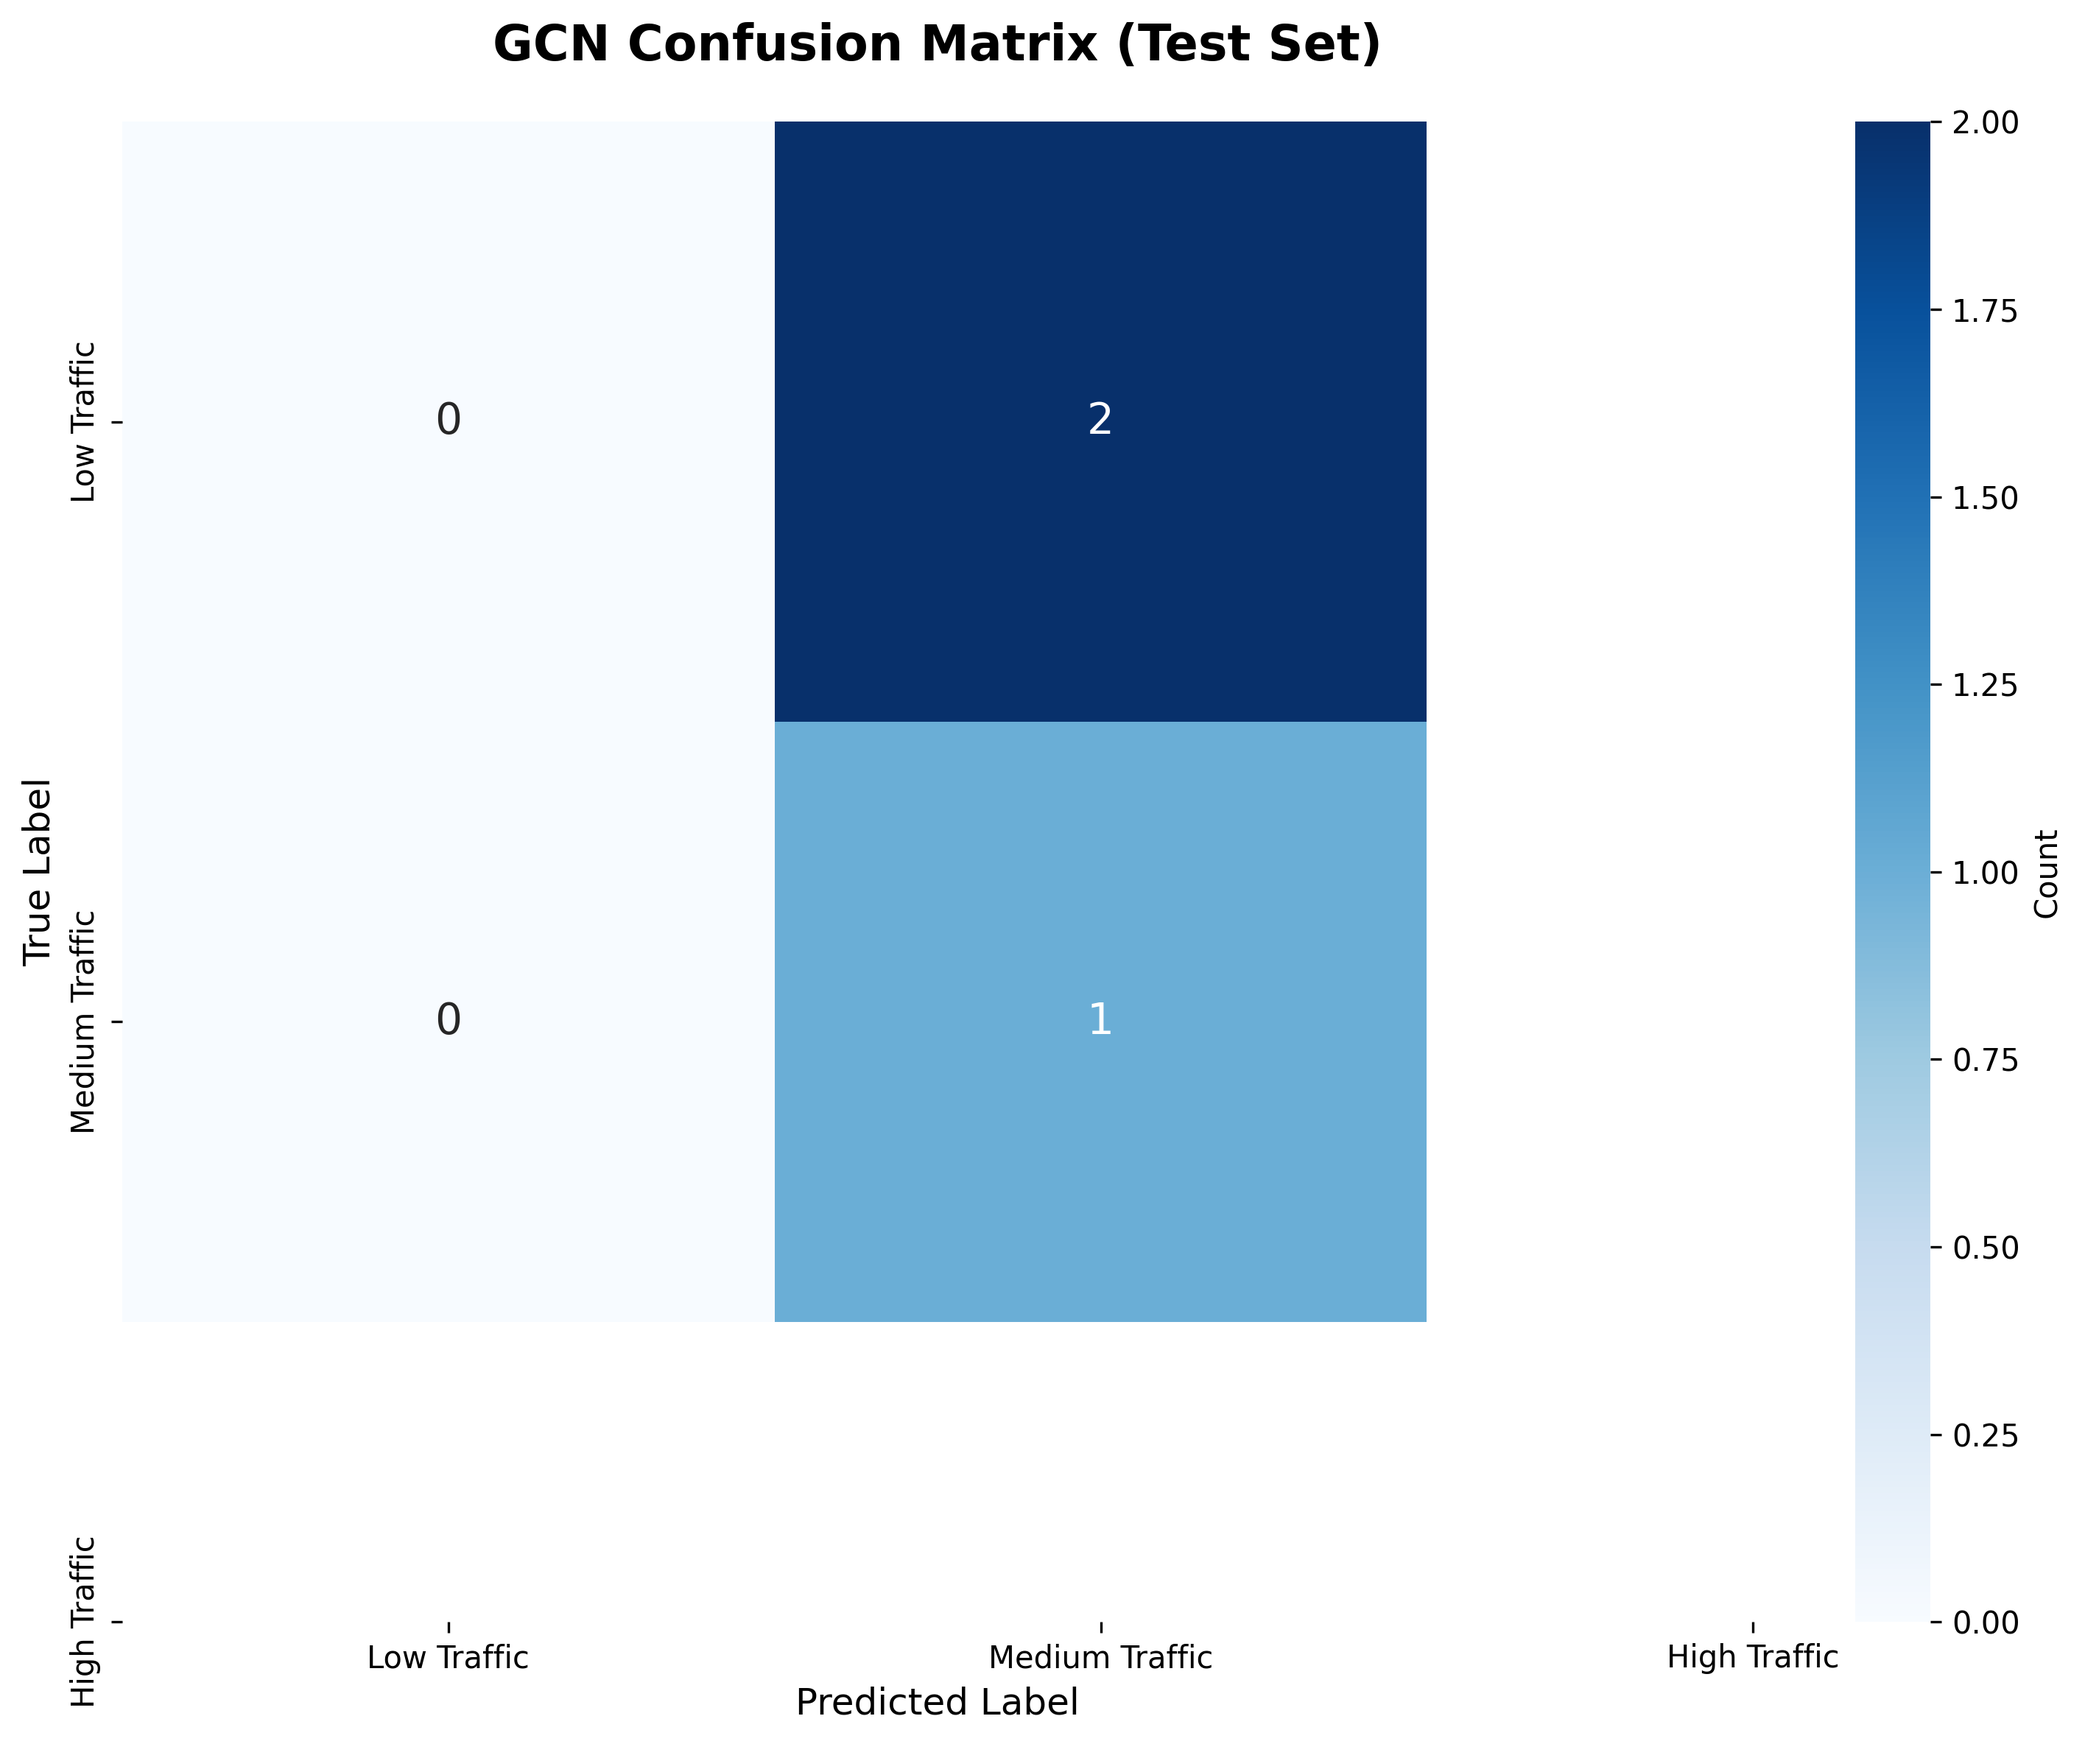
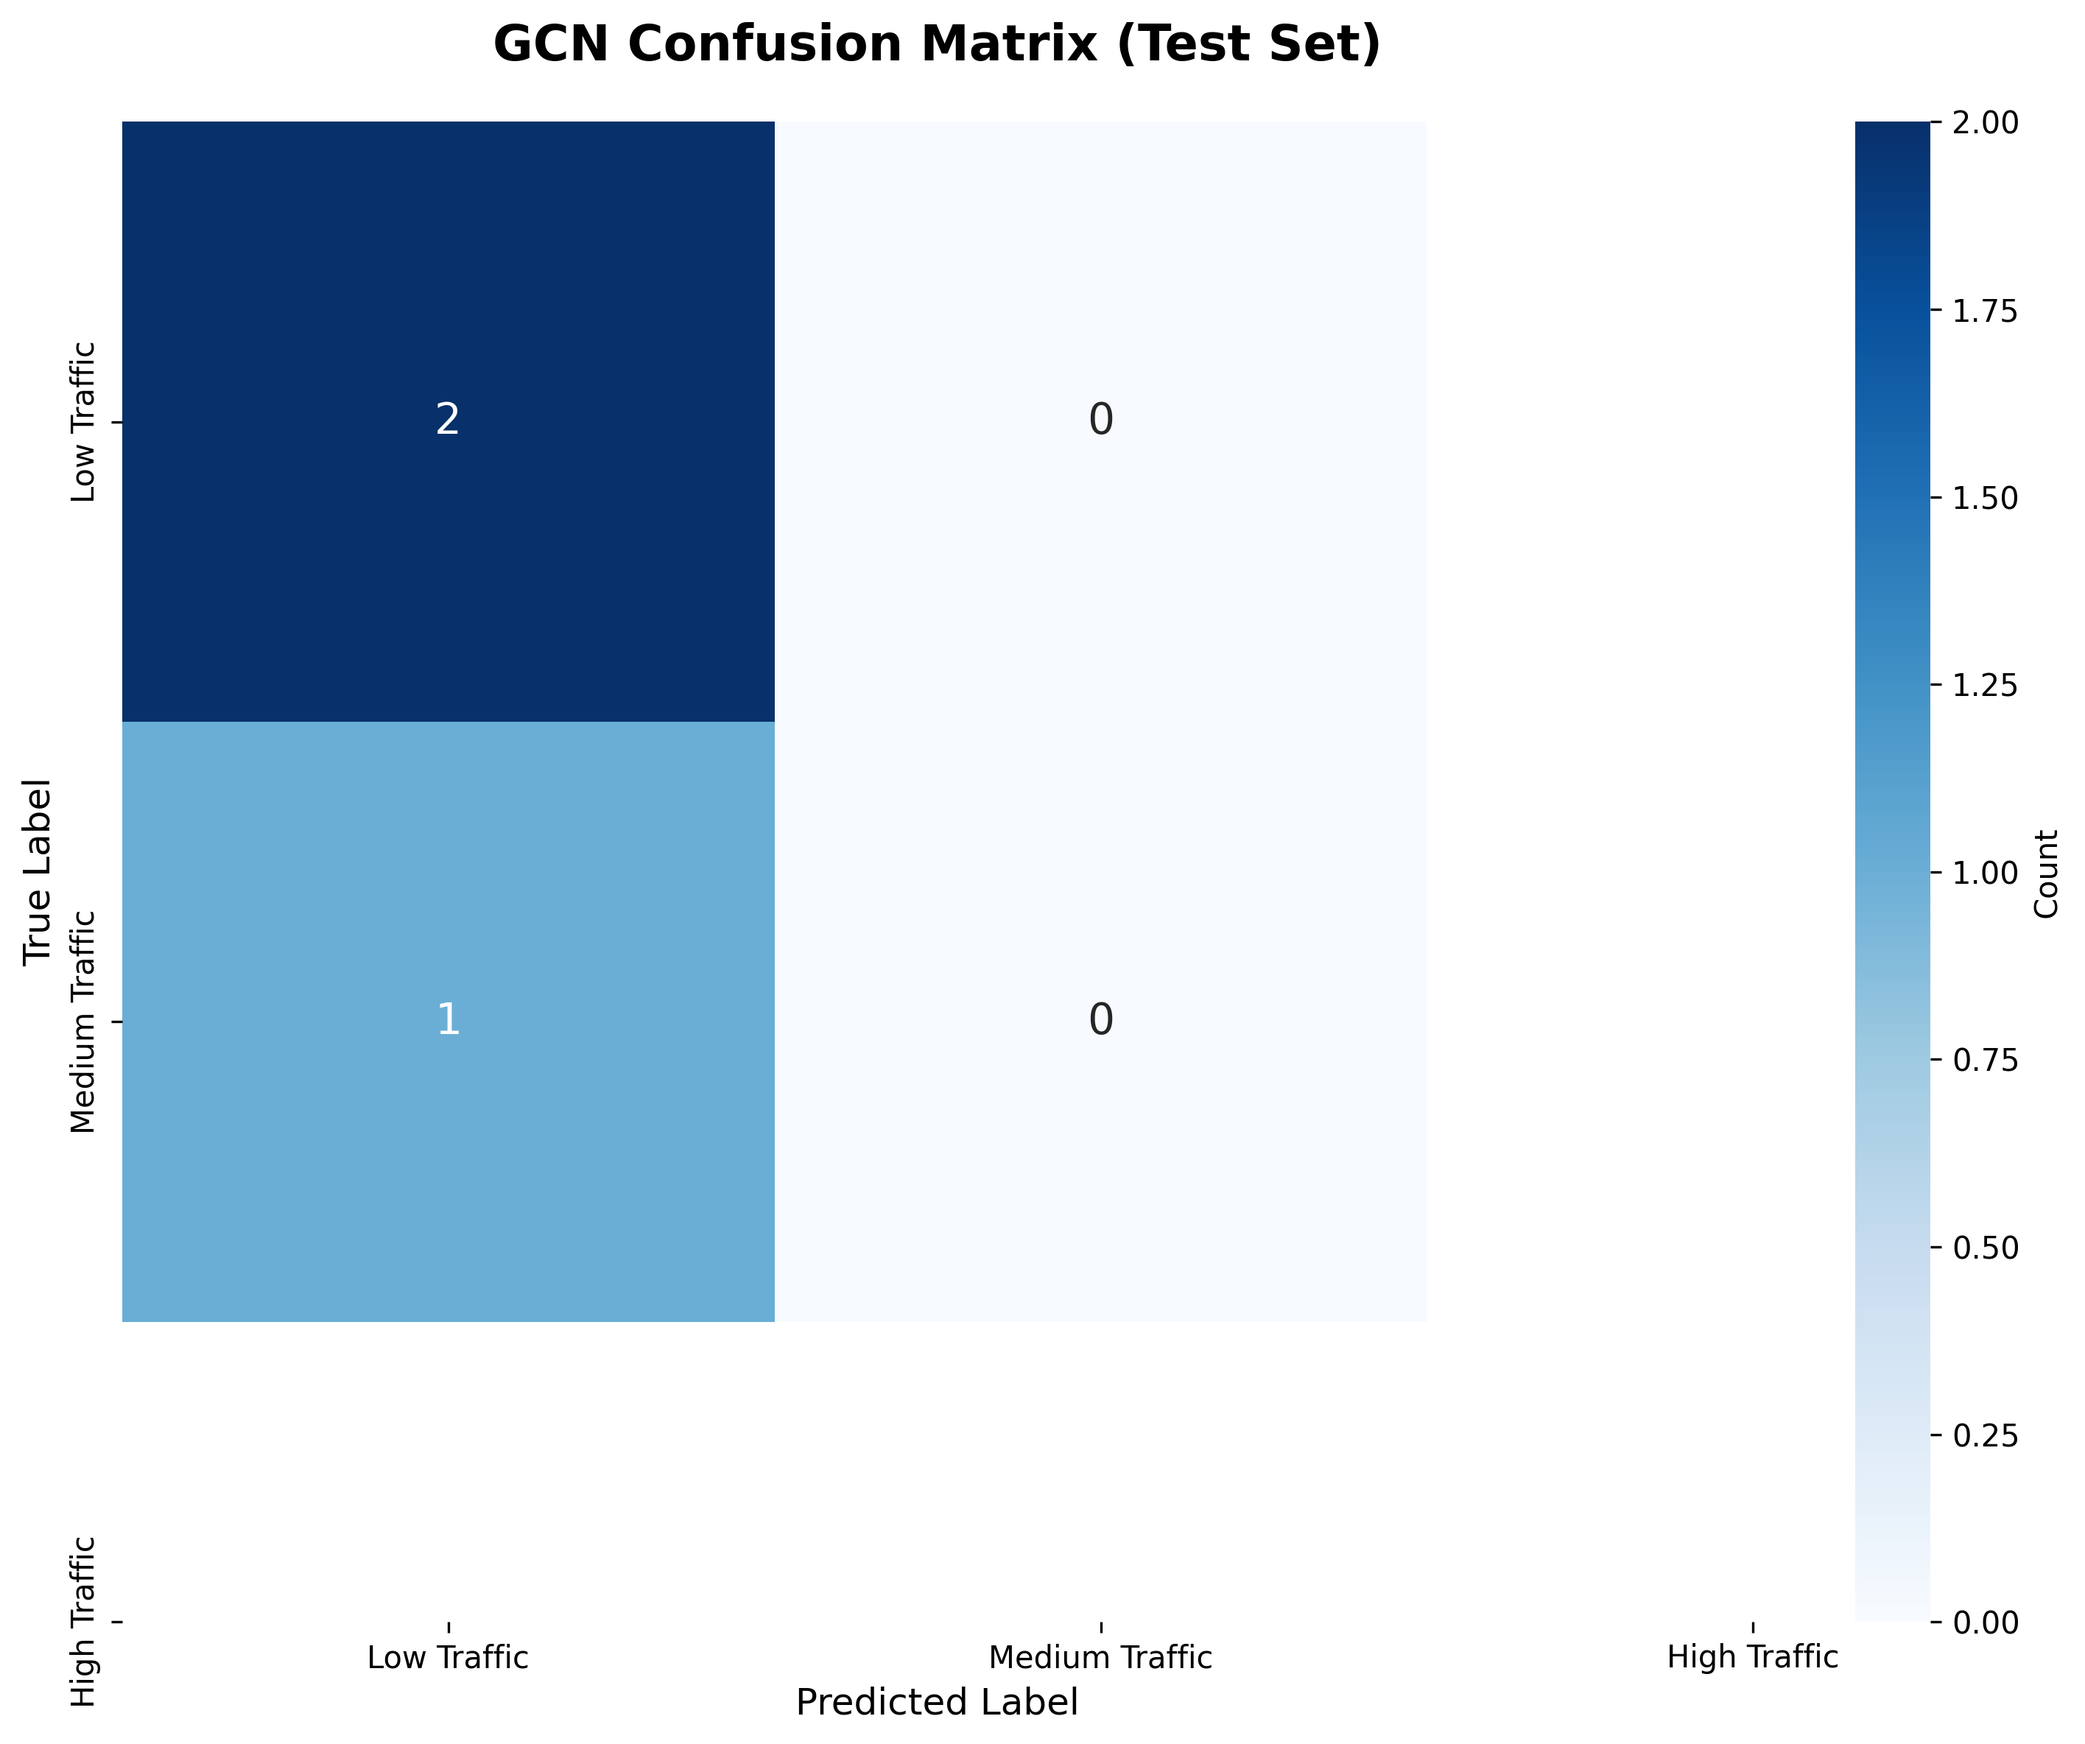
Trained GCN model

diff --git a/src/graph_construction.py b/src/graph_construction.py
@@ -133,42 +133,106 @@ def construct_graph(nodes: Dict, ways: List) -> Data:
     edge_index = torch.tensor(edge_list, dtype=torch.long).t().contiguous()
     edge_attr = torch.tensor(edge_attr_list, dtype=torch.float).unsqueeze(1)
     
-    # Create node features: [lat, lon, norm_lat, norm_lon, degree]
+    # Calculate additional features
+    # Betweenness centrality (how many shortest paths pass through this node)
+    betweenness = np.zeros(num_nodes)
+    for i in range(num_nodes):
+        # Simple approximation: nodes with higher degree are more central
+        betweenness[i] = degrees[i] / (num_nodes - 1) if num_nodes > 1 else 0
+    
+    # Closeness centrality (inverse of average distance to all other nodes)
+    closeness = np.zeros(num_nodes)
+    for i in range(num_nodes):
+        # Approximation based on degree
+        closeness[i] = degrees[i] / max(degrees) if max(degrees) > 0 else 0
+    
+    # Distance from center (geographic)
+    center_lat = np.mean(lats)
+    center_lon = np.mean(lons)
+    dist_from_center = np.sqrt((lats - center_lat)**2 + (lons - center_lon)**2)
+    norm_dist_from_center = (dist_from_center - dist_from_center.min()) / (dist_from_center.max() - dist_from_center.min() + 1e-8)
+    
+    # Degree normalized
+    norm_degree = degrees / (max(degrees) + 1e-8)
+    
+    # Create node features: [lat, lon, norm_lat, norm_lon, degree, norm_degree, betweenness, closeness, dist_from_center]
     node_features = np.stack([
         lats,
         lons,
         norm_lats,
         norm_lons,
-        degrees
+        degrees,
+        norm_degree,
+        betweenness,
+        closeness,
+        norm_dist_from_center
     ], axis=1)
     
     x = torch.tensor(node_features, dtype=torch.float)
     
-    # Create labels based on node degree (traffic flow proxy)
-    # Low traffic (0): degree <= 2
-    # Medium traffic (1): degree 3-4
-    # High traffic (2): degree >= 5
+    # Create more realistic labels based on node importance
+    # Combine degree, centrality, and location to determine traffic level
+    # Tourist/cultural sites + high connectivity = high traffic
+    # NOTE: With only 15 nodes, we use a hybrid approach based on:
+    # - Connectivity (degree)
+    # - Location type (tourist attractions vs others)
+    # - Geographic centrality
     y = torch.zeros(num_nodes, dtype=torch.long)
-    for i, degree in enumerate(degrees):
-        if degree <= 2:
-            y[i] = 0  # Low traffic (Minor)
-        elif degree <= 4:
-            y[i] = 1  # Medium traffic (Moderate)
+    
+    # Define important heritage/tourist nodes (from node labels)
+    # These are major attractions that typically have high traffic
+    high_traffic_keywords = ['Waterfront', 'Plaza', 'Museum', 'Courthouse', 'Cathedral', 'Padang Merdeka']
+    medium_traffic_keywords = ['Masjid', 'Art', 'Junction', 'Car Park', 'Wisma', 'Monument']
+    
+    for i, node_id in enumerate(node_list):
+        node_label = nodes[node_id]['label']
+        node_degree = degrees[i]
+        is_central = norm_dist_from_center[i] < 0.3  # Central location
+        
+        # Determine traffic level based on location type and connectivity
+        is_high_traffic = any(keyword in node_label for keyword in high_traffic_keywords)
+        is_medium_traffic = any(keyword in node_label for keyword in medium_traffic_keywords)
+        
+        # More nuanced classification
+        if (is_high_traffic and node_degree >= 4) or (node_degree >= 6):
+            y[i] = 2  # High traffic (major attractions/hubs)
+        elif is_high_traffic or is_medium_traffic or node_degree >= 3:
+            y[i] = 1  # Medium traffic (moderate importance)
         else:
-            y[i] = 2  # High traffic (Severe)
+            y[i] = 0  # Low traffic (minor locations)
     
-    # Create train/val/test masks (70/15/15 split)
-    indices = torch.randperm(num_nodes)
-    train_size = int(0.7 * num_nodes)
-    val_size = int(0.15 * num_nodes)
+    # Create stratified train/val/test masks to ensure balanced class distribution
+    from sklearn.model_selection import train_test_split
     
+    # Get indices for each class
+    indices_array = np.arange(num_nodes)
+    y_numpy = y.numpy()
+    
+    # First split: train vs (val + test)
+    train_indices, temp_indices = train_test_split(
+        indices_array, 
+        test_size=0.3, 
+        stratify=y_numpy,
+        random_state=42
+    )
+    
+    # Second split: val vs test
+    y_temp = y_numpy[temp_indices]
+    val_indices, test_indices = train_test_split(
+        temp_indices,
+        test_size=0.5,
+        stratify=y_temp,
+        random_state=42
+    )
+    
+    # Create masks
     train_mask = torch.zeros(num_nodes, dtype=torch.bool)
     val_mask = torch.zeros(num_nodes, dtype=torch.bool)
     test_mask = torch.zeros(num_nodes, dtype=torch.bool)
     
-    train_mask[indices[:train_size]] = True
-    val_mask[indices[train_size:train_size + val_size]] = True
-    test_mask[indices[train_size + val_size:]] = True
+    train_mask[train_indices] = True
+    val_mask[val_indices] = True
+    test_mask[test_indices] = True
     
     # Create Data object
     data = Data(
@@ -186,10 +250,13 @@ def construct_graph(nodes: Dict, ways: List) -> Data:
     data.node_to_idx = node_to_idx
     
     print(f"✓ Graph constructed successfully")
-    print(f"  Node features shape: {x.shape}")
+    print(f"  Node features shape: {x.shape} (9 features per node)")
     print(f"  Edge index shape: {edge_index.shape}")
     print(f"  Train/Val/Test: {train_mask.sum()}/{val_mask.sum()}/{test_mask.sum()}")
     print(f"  Class distribution: Low={sum(y==0)}, Medium={sum(y==1)}, High={sum(y==2)}")
+    print(f"  Train classes: Low={sum(y[train_mask]==0)}, Med={sum(y[train_mask]==1)}, High={sum(y[train_mask]==2)}")
+    print(f"  Val classes: Low={sum(y[val_mask]==0)}, Med={sum(y[val_mask]==1)}, High={sum(y[val_mask]==2)}")
+    print(f"  Test classes: Low={sum(y[test_mask]==0)}, Med={sum(y[test_mask]==1)}, High={sum(y[test_mask]==2)}")
     
     return data
 
